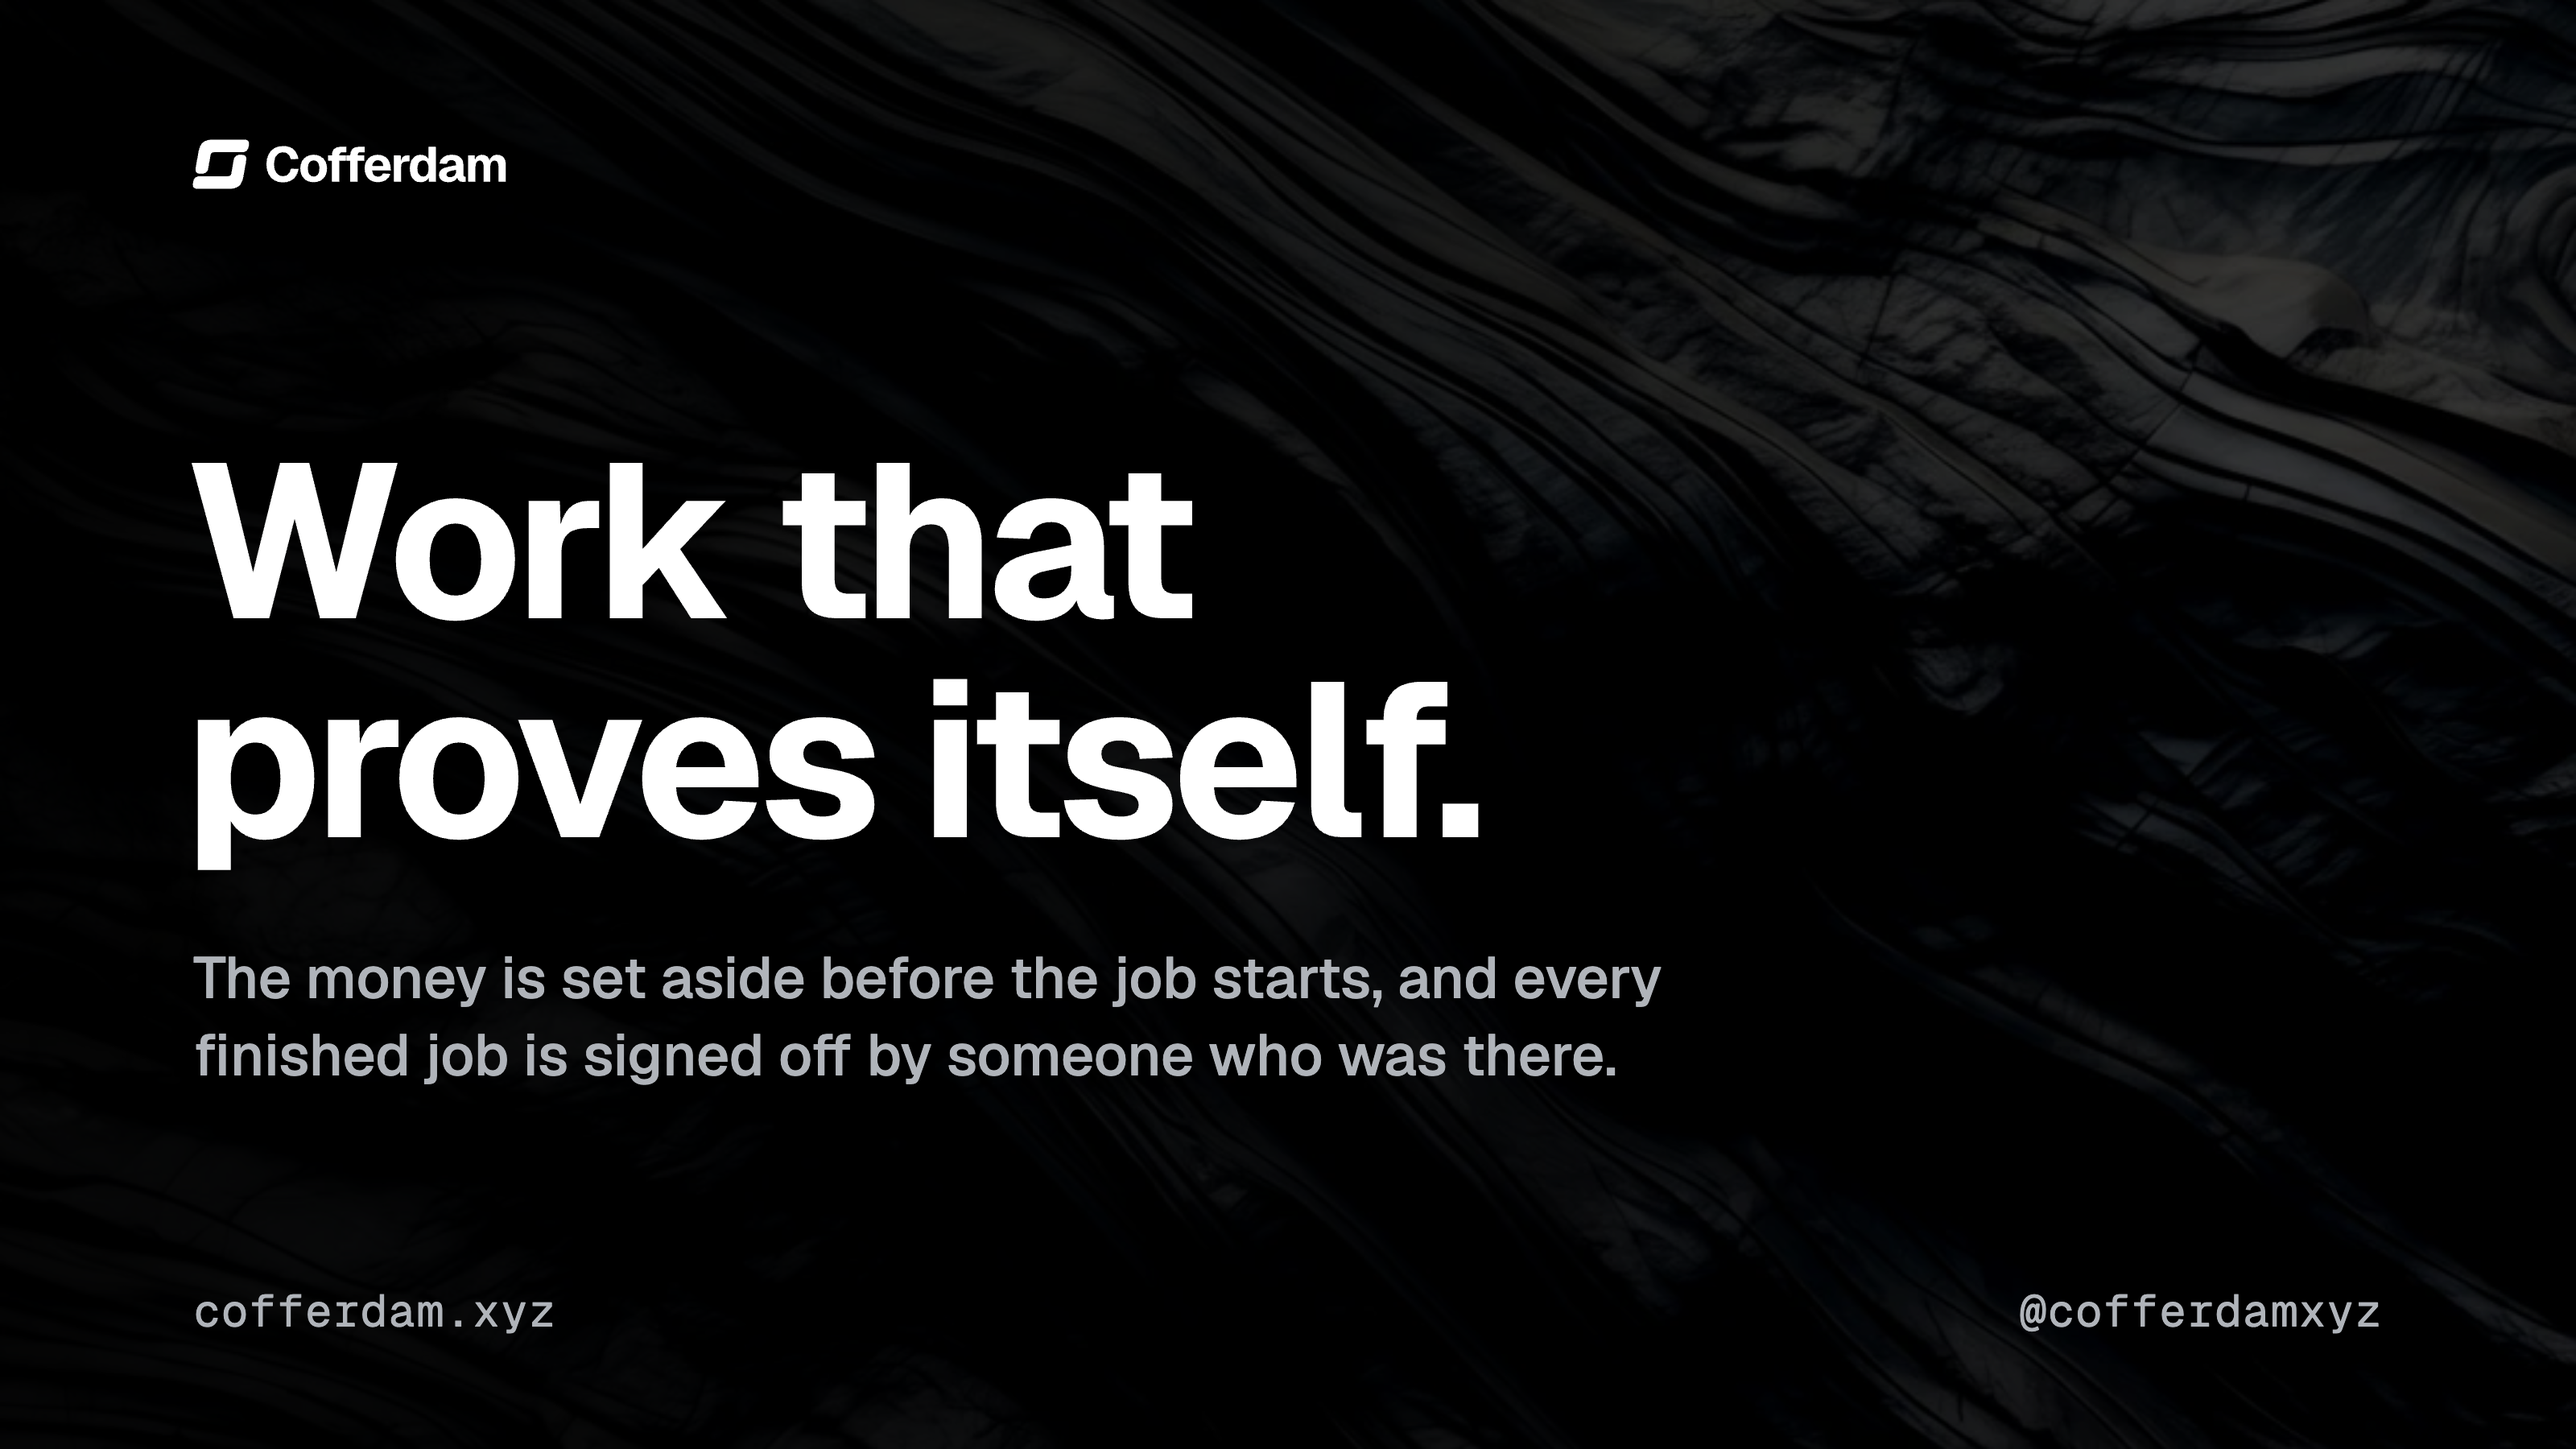
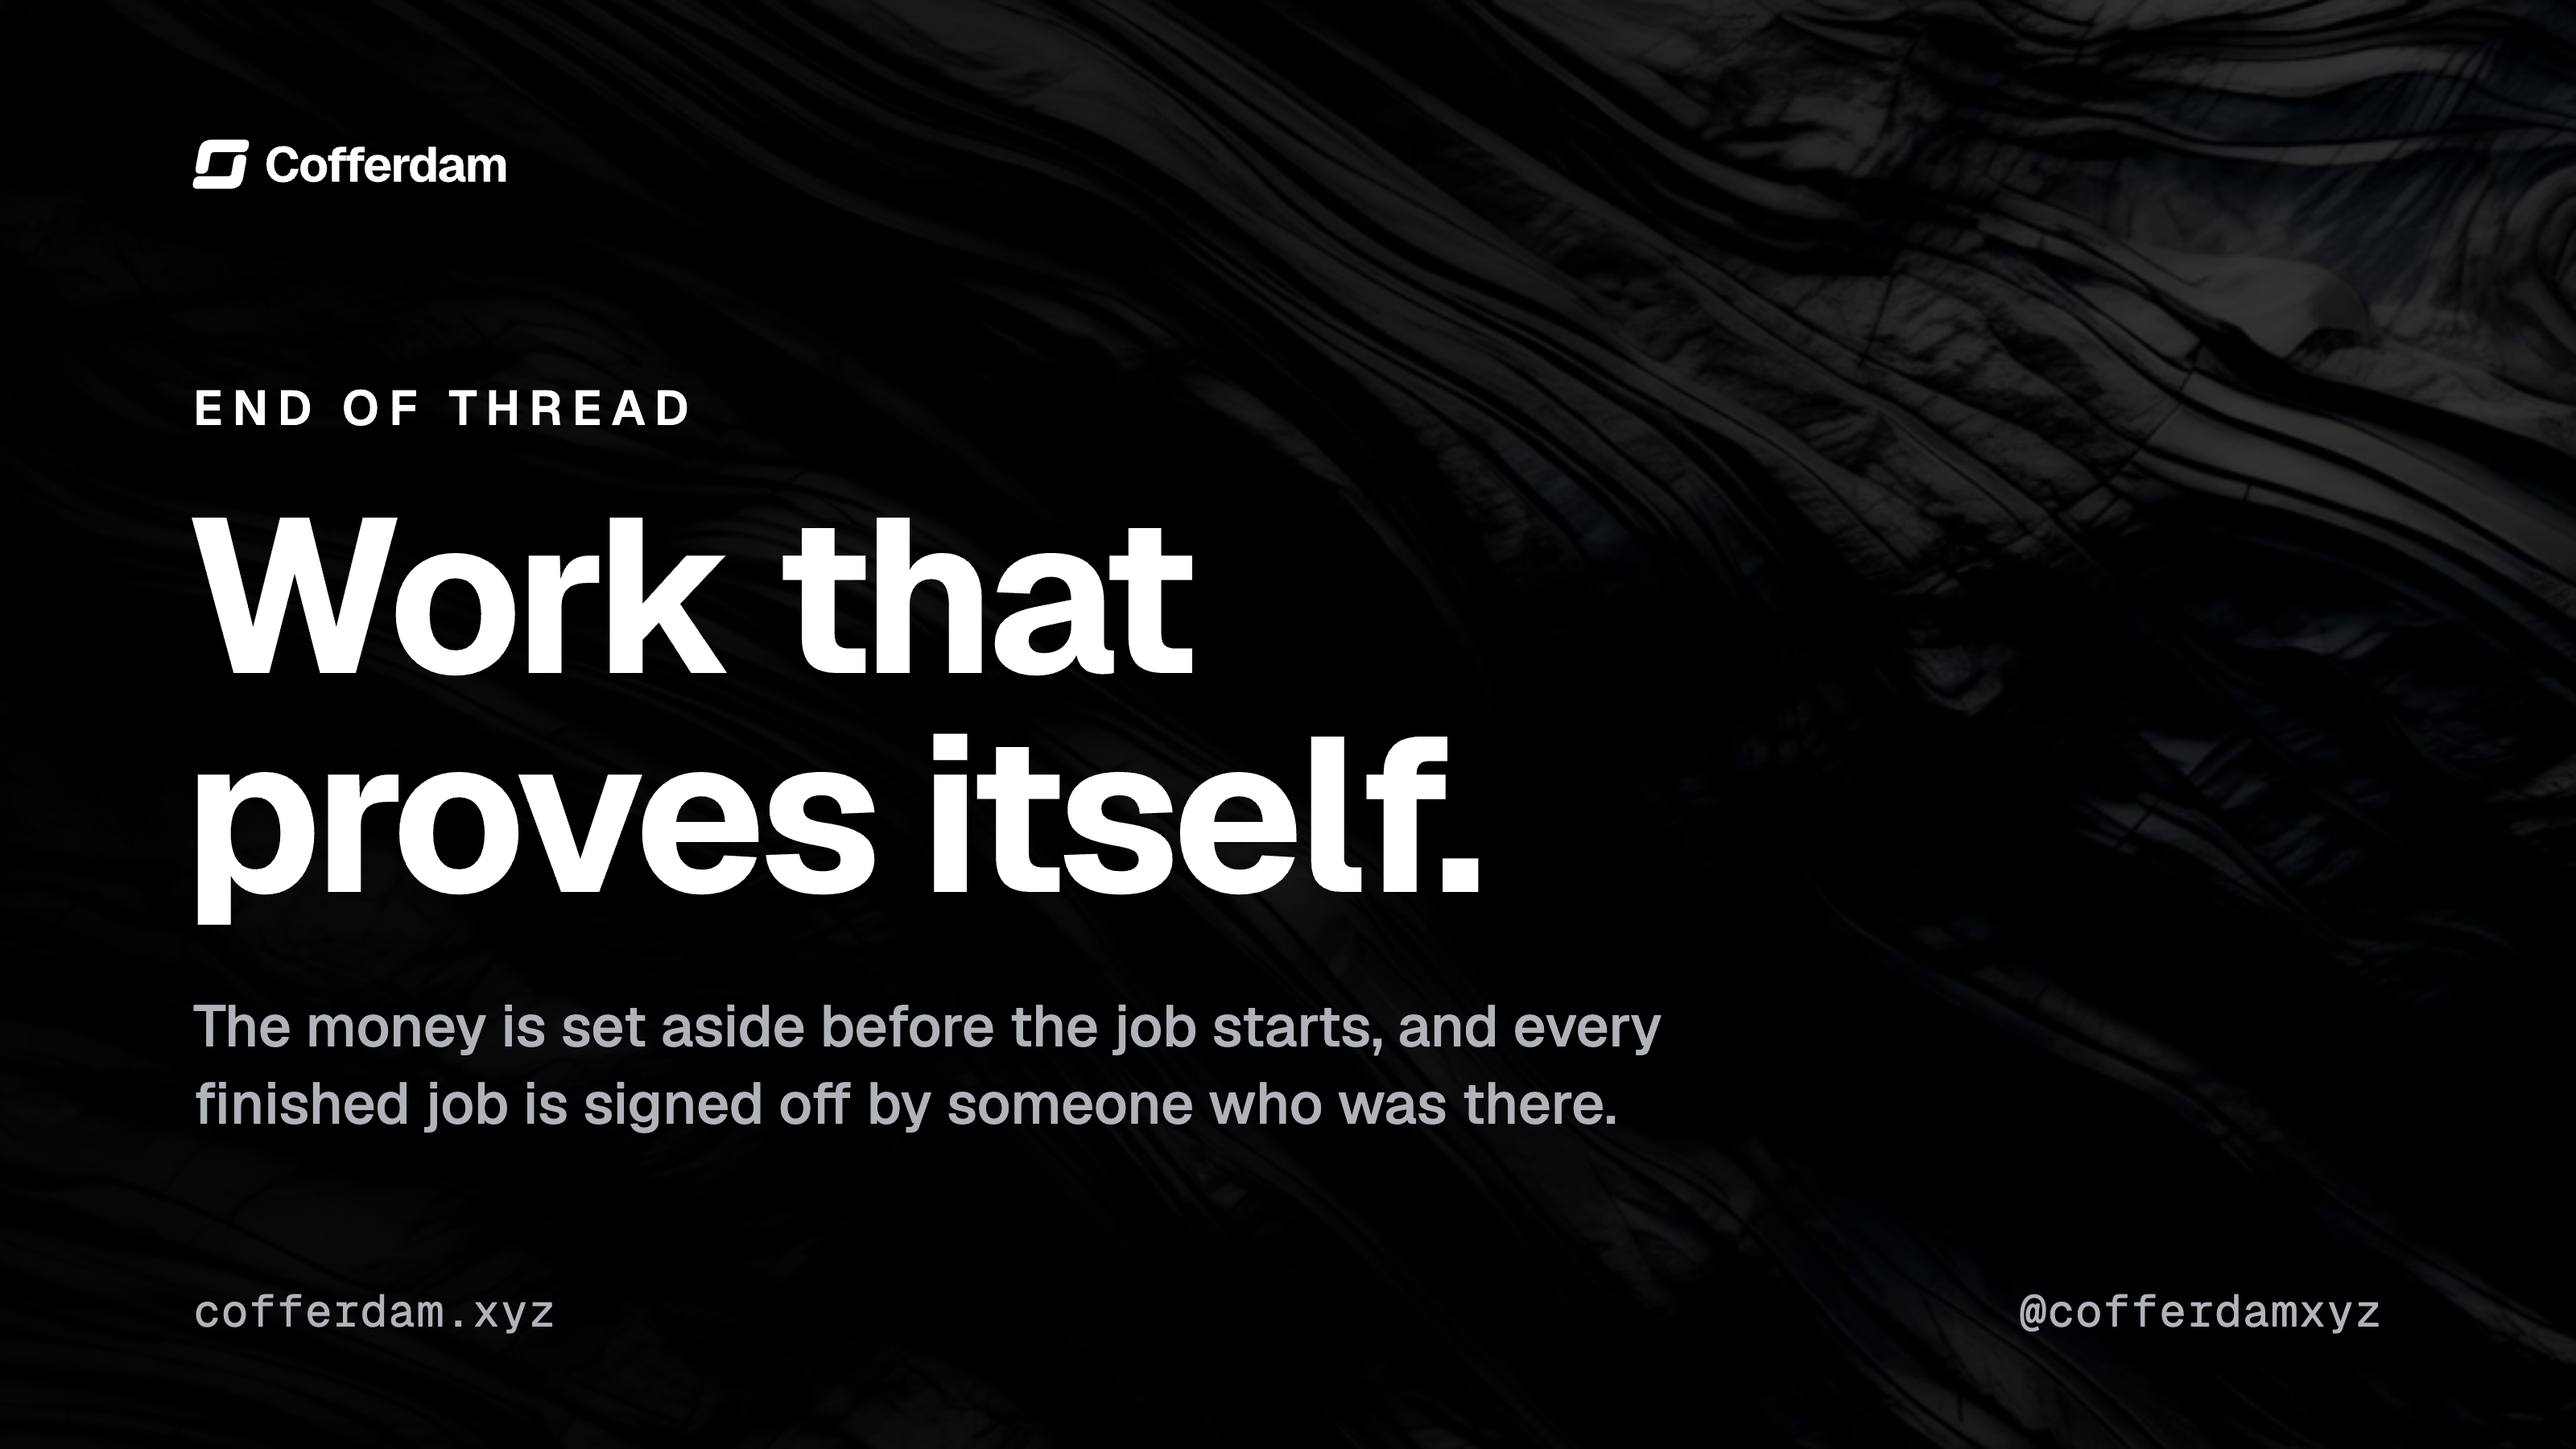
social: the thread's closing picture says "End of thread" above the statement
The founder, 2026-11-26: "we need to add end of thread text somewhere in
it". The eyebrow role, in white, sized to read in a timeline.

Changed region(s): [[0.0625, 0.2489, 0.6562, 0.7778]]

diff --git a/social/x-thread-end.html b/social/x-thread-end.html
@@ -3,8 +3,8 @@
   rendered at 2x by scripts/render-social.py with the brand tokens (dist/tokens.css) and fonts;
   {{asset:…}} placeholders become file URLs at render time. Attach it to the last post of a thread.
 
-  blocks:  Obsidian stone ground, faded toward the left · the lockup · the brand statement ·
-           one sentence that says what Cofferdam is · the address and the account
+  blocks:  Obsidian stone ground, faded toward the left · the lockup · the line "End of thread" ·
+           the brand statement · one sentence that says what Cofferdam is · the address and the account
   arrange: the cover's layout (social/articles/*/render.py, d_cover), so an article's first and last
            pictures read as a pair: lockup top left, the statement on the calm side of the stone,
            the addresses on the bottom line
@@ -12,7 +12,8 @@
            nothing here names a post or a topic. Dark only: X shows one picture in both its themes.
            No proof elements, no accent, no button drawn (a picture cannot be pressed).
   type:    Geist 700 at -0.03em (the display tracking), Geist 500 for the sentence, Geist Mono for
-           the address and the account
+           the address and the account; "End of thread" is the eyebrow role (uppercase, 0.2em), in
+           white and large enough to read in a timeline, since it is what the picture is for
   words:   the sentence is the brand README's first, cut to its second half. It passes the voice
            rules (no jargon, nothing held, no return); change it there first.
 -->
@@ -25,9 +26,11 @@
            -webkit-mask-image: linear-gradient(90deg, rgba(0,0,0,.2) 0%, rgba(0,0,0,.55) 45%, #000 85%);
                    mask-image: linear-gradient(90deg, rgba(0,0,0,.2) 0%, rgba(0,0,0,.55) 45%, #000 85%); }
   .lockup { position: absolute; left: 109px; top: 76px; height: 52px; }  /* the file's clear space puts the mark's edge on the text's, at 120 */
-  .text { position: absolute; left: 120px; top: 268px; }
+  .text { position: absolute; left: 120px; top: 236px; }
+  .eyebrow { margin: 0 0 30px; font-size: 30px; line-height: 36px; font-weight: 600; letter-spacing: 0.2em;
+             text-transform: uppercase; color: var(--fg); }
   .statement { margin: 0 0 0 -6px; font-size: 136px; line-height: 1; font-weight: 700; letter-spacing: -0.03em; }
-  .what { margin: 44px 0 0; max-width: 1060px; font-size: 36px; line-height: 48px; font-weight: 500;
+  .what { margin: 40px 0 0; max-width: 1060px; font-size: 36px; line-height: 48px; font-weight: 500;
           color: var(--fg-muted); text-wrap: balance; }
   .foot { position: absolute; left: 120px; right: 120px; bottom: 68px; display: flex; justify-content: space-between;
           margin: 0; font-family: var(--font-mono); font-size: 28px; letter-spacing: 0.02em; color: var(--fg-muted); }
@@ -36,6 +39,7 @@
   <div class="stone"></div>
   <img class="lockup" src="{{asset:assets/logos/lockups/cofferdam-lockup-horizontal-white.svg}}" alt="">
   <div class="text">
+    <p class="eyebrow">End of thread</p>
     <p class="statement">Work that<br>proves itself.</p>
     <p class="what">The money is set aside before the job starts, and every finished job is signed off by someone who was there.</p>
   </div>

diff --git a/brand/asset-groups/Social.md b/brand/asset-groups/Social.md
@@ -2,6 +2,6 @@ Cofferdam on social networks: profile assets rendered from the current tokens by
 
 - `x-header.png` — the X profile header, 1500×500. The brand statement in Geist 700, set right on the Obsidian stone with `cofferdam.xyz` beneath in Geist Mono. The statement sits in the band phones keep (X trims about 70px top and bottom) and clear of the lower left, where X lays the profile picture. No mark and no name: the picture carries the mark and X prints the name under the header. Dark only, since X shows one header in both its themes. Template: `social/x-header.html`.
 - `x-avatar.png` — the X profile picture, 400×400: the colour icon tile, the same art as the GitHub enterprise avatar, with the mark inside the circle-safe area, so it holds whether X crops it to a circle or, for a verified organisation, a rounded square.
-- `x-thread-end.png` — the picture that closes a thread on X, 1600×900 rendered at 2x (16:9, the shape X shows whole in a timeline). A sign-off, so the brand statement is the headline, on the Obsidian stone, with the single-ink lockup top left, one sentence that says what Cofferdam is, and `cofferdam.xyz` and the account on the bottom line in Geist Mono. It follows an article cover's layout, so a thread's first and last pictures read as a pair. One picture for every thread: nothing in it names a post or a topic. Dark only; no accent and no drawn button. Attach it to the last post of a thread. Template: `social/x-thread-end.html`.
+- `x-thread-end.png` — the picture that closes a thread on X, 1600×900 rendered at 2x (16:9, the shape X shows whole in a timeline). A sign-off, so the brand statement is the headline, on the Obsidian stone, with the line "End of thread" above it (the eyebrow role, in white), the single-ink lockup top left, one sentence that says what Cofferdam is, and `cofferdam.xyz` and the account on the bottom line in Geist Mono. It follows an article cover's layout, so a thread's first and last pictures read as a pair. One picture for every thread: nothing in it names a post or a topic. Dark only; no accent and no drawn button. Attach it to the last post of a thread. Template: `social/x-thread-end.html`.
 
 Re-render after a texture, type, lockup or icon-tile change: `node scripts/build.mjs && python3 scripts/render-social.py` (Playwright); name a picture to render only that one (`python3 scripts/render-social.py x-thread-end`).

diff --git a/dist/design-system/project/assets/Social/README.md b/dist/design-system/project/assets/Social/README.md
@@ -2,6 +2,6 @@ Cofferdam on social networks: profile assets rendered from the current tokens by
 
 - `x-header.png` — the X profile header, 1500×500. The brand statement in Geist 700, set right on the Obsidian stone with `cofferdam.xyz` beneath in Geist Mono. The statement sits in the band phones keep (X trims about 70px top and bottom) and clear of the lower left, where X lays the profile picture. No mark and no name: the picture carries the mark and X prints the name under the header. Dark only, since X shows one header in both its themes. Template: `social/x-header.html`.
 - `x-avatar.png` — the X profile picture, 400×400: the colour icon tile, the same art as the GitHub enterprise avatar, with the mark inside the circle-safe area, so it holds whether X crops it to a circle or, for a verified organisation, a rounded square.
-- `x-thread-end.png` — the picture that closes a thread on X, 1600×900 rendered at 2x (16:9, the shape X shows whole in a timeline). A sign-off, so the brand statement is the headline, on the Obsidian stone, with the single-ink lockup top left, one sentence that says what Cofferdam is, and `cofferdam.xyz` and the account on the bottom line in Geist Mono. It follows an article cover's layout, so a thread's first and last pictures read as a pair. One picture for every thread: nothing in it names a post or a topic. Dark only; no accent and no drawn button. Attach it to the last post of a thread. Template: `social/x-thread-end.html`.
+- `x-thread-end.png` — the picture that closes a thread on X, 1600×900 rendered at 2x (16:9, the shape X shows whole in a timeline). A sign-off, so the brand statement is the headline, on the Obsidian stone, with the line "End of thread" above it (the eyebrow role, in white), the single-ink lockup top left, one sentence that says what Cofferdam is, and `cofferdam.xyz` and the account on the bottom line in Geist Mono. It follows an article cover's layout, so a thread's first and last pictures read as a pair. One picture for every thread: nothing in it names a post or a topic. Dark only; no accent and no drawn button. Attach it to the last post of a thread. Template: `social/x-thread-end.html`.
 
 Re-render after a texture, type, lockup or icon-tile change: `node scripts/build.mjs && python3 scripts/render-social.py` (Playwright); name a picture to render only that one (`python3 scripts/render-social.py x-thread-end`).

diff --git a/CHANGELOG.md b/CHANGELOG.md
@@ -1,5 +1,9 @@
 # Changelog
 
+## 2026-11-26 — the thread's closing picture says "End of thread"
+
+- `social/x-thread-end.html`, `assets/social/x-thread-end.png`: the line "End of thread" sits above the statement, in the eyebrow role (uppercase, 0.2em tracking), white and large enough to read in a timeline (the founder, 2026-11-26: "we need to add end of thread text somewhere in it"). The block moved up to make room; nothing else changed.
+
 ## 2026-11-26 — a picture that closes a thread on X
 
 - New `assets/social/x-thread-end.png` (3200×1800, 16:9) from the template `social/x-thread-end.html`: the brand statement as the sign-off on the Obsidian stone, the single-ink lockup, one sentence that says what Cofferdam is (the brand README's first, cut to its second half), and `cofferdam.xyz` and `@cofferdamxyz` in Geist Mono (the founder, 2026-11-26: "Create the end of thread picture for X based off our branding"). It takes the article cover's layout and names no post, so one picture closes every thread. Dark only, no accent, no token changed.
